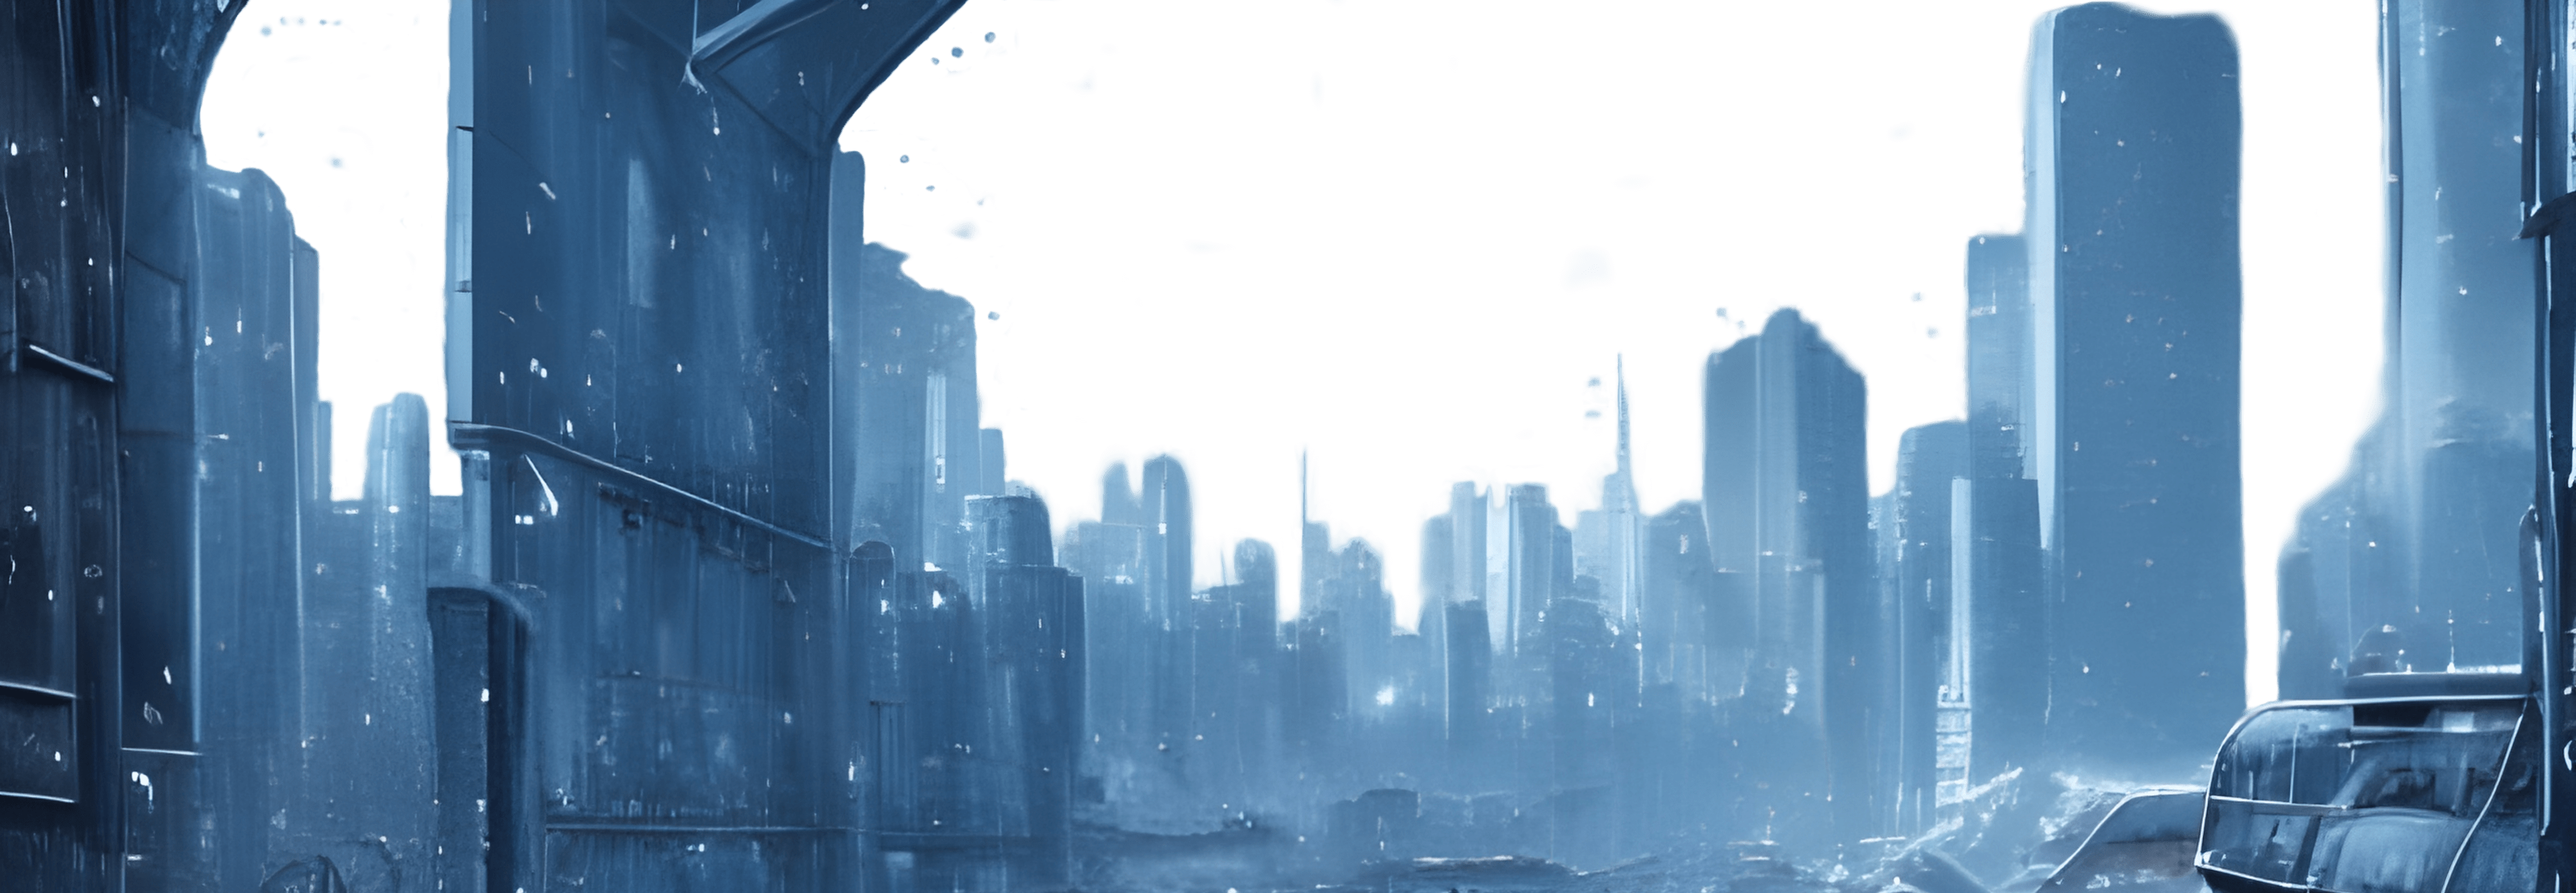
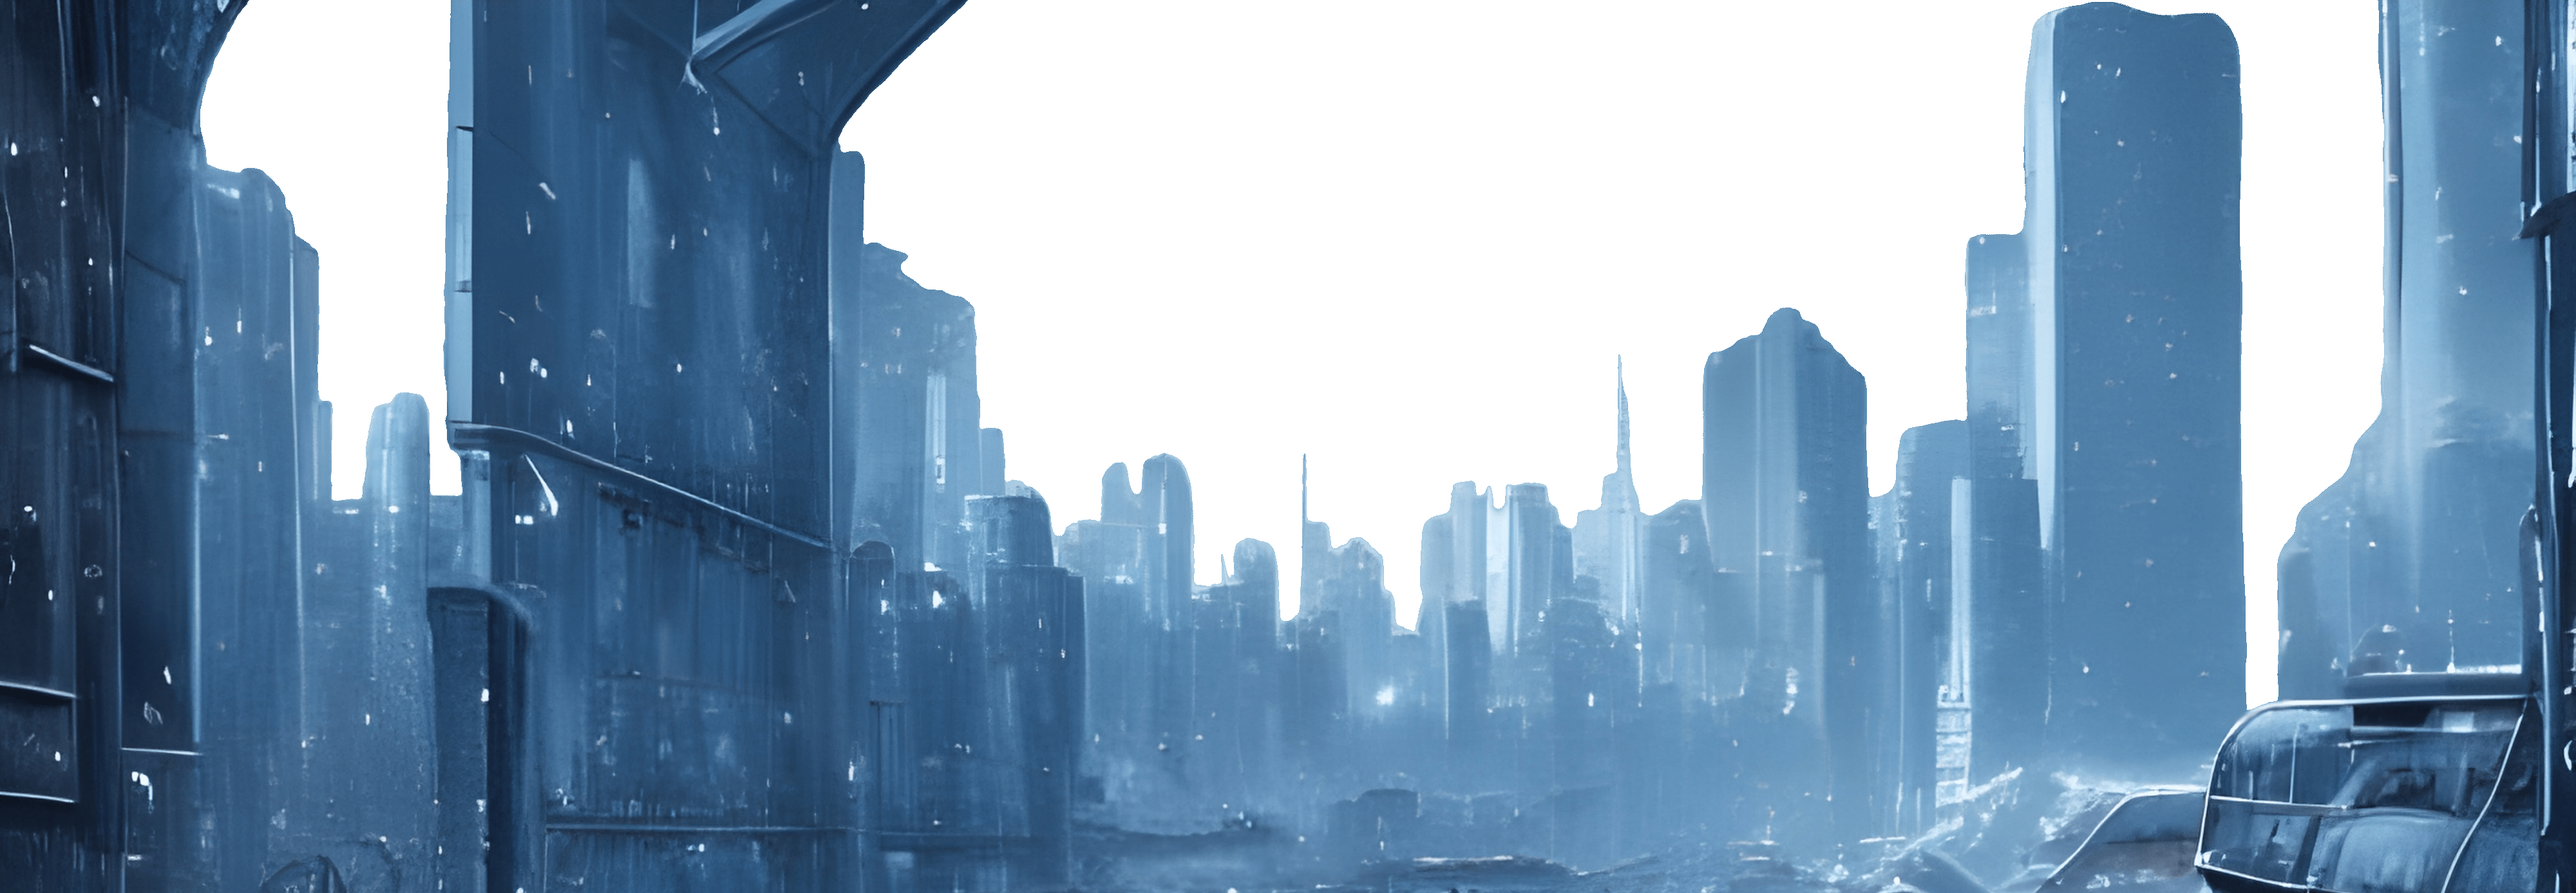
neotowns edit

diff --git a/public/defer.css b/public/defer.css
@@ -385,12 +385,12 @@ button:hover .icon .screen, button:hover .icon.screen {
 
 /* --< components >-- */
 .prog-dots:after {
-    content: '...';
-    animation: prog-dots-anim 2s linear infinite;
+    content: '';
+    animation: prog-dots-anim 4s linear infinite;
 }
 
 .prog-dots.glitch:after {
-    animation: prog-dots-anim-glitch 2s linear infinite;
+    animation: prog-dots-anim-glitch 4s ease-in infinite;
 }
 
 .what-is-this {
@@ -991,9 +991,9 @@ strong.buds {
 }
 
 #cyber .index__page .nav-container button.disabled:hover {
-    color: #696969;
+    color: #50545899;
+    border-color: #50545899;
     background-color: transparent;
-    border-color: #696969;
     cursor: default;
 }
 
@@ -1261,12 +1261,13 @@ strong.buds {
     background-position: 50% 25%;
 }
 
-#cyber .map .neotowns {
+#cyber .map .neotowns.img {
     background-image: url('img/map/explore/neotowns.png');
 }
 
 #cyber .map .neotowns.bg {
     background-position: center;
+    background-image: url('img/map/explore/neotowns-bg.jpg');
 }
 
 #cyber .map .spaceship {
@@ -1853,7 +1854,7 @@ strong.buds {
 #cyber .map .card:not(.nav),
 #cyber .map .card-wrap:not(.bar) .card.nav button:not(:hover) {
     color: var(--fg-blue);
-    background-color: #3333;
+    background-color: #2d323669;
     filter: brightness(80%) saturate(80%) contrast(120%);
 }
 
@@ -1889,13 +1890,6 @@ strong.buds {
 
 #cyber .map .card.nav article {
     margin: 0;
-}
-
-#cyber .prog-dots:after {
-    content: '';
-    animation-iteration-count: 1;
-    animation-delay: 1s;
-    animation-fill-mode: forwards;
 }
 
 .card h1 {
@@ -3484,15 +3478,17 @@ noscript span:hover {
 }
 
 @keyframes prog-dots-anim {
-    0% {content: '.';}
-    33% {content: '..';}
-    66%, 100% {content: '...';}
+    0% {content: '';}
+    25% {content: '.';}
+    50% {content: '..';}
+    75%, 100% {content: '...';}
 }
 
 @keyframes prog-dots-anim-glitch {
-    0%, 92% {content: '.';}
-    33% {content: '..';}
-    66%, 88%, 95%, 100% {content: '...';}
+    0%, 99% {content: '';}
+    25%, 92% {content: '.';}
+    50% {content: '..';}
+    75%, 88%, 94%, 98%, 100% {content: '...';}
 }
 
 @keyframes lasr-ring {

diff --git a/src/Components/Sections/Map/Explore/Neotowns.jsx b/src/Components/Sections/Map/Explore/Neotowns.jsx
@@ -9,26 +9,26 @@ export default function Neotowns() {
     <MoveSection id="explore_neotowns">
       <MapCard mover={mover} bg="neotowns" position="top">
         <p>
-          At the <strong>Horizon Centre</strong>
-          <span className="prog-dots glitch" />
-        </p>
-      </MapCard>
-      <MapCard mover={mover} bg="neotowns" position="top">
-        <p>
-          Dense degraded circuitry under the gradient twilight stars
-          <span className="prog-dots glitch" />
-        </p>
-      </MapCard>
-      <MapCard mover={mover} bg="neotowns" position="top">
-        <p>
-          Glimpsed into a world where shadow obstructs and clutters with uneven
-          machinery the metropolis' skyline.
+          <strong>Neotowns</strong> blur the boundaries between fantasy
+          and reality, merging elements from both places for deeper levels
+          of immersion within their world.
         </p>
       </MapCard>
       <MapCard mover={mover} position="top">
         <p>
-          As the night lurks in the <strong>Underground</strong> awakes
-          <span className="prog-dots" />
+          Dense degraded circuitry rots under the gradient twilight stars
+          seen through the <strong>H.O.R.I.Z.O.N.</strong> buildings.
+        </p>
+      </MapCard>
+      <MapCard mover={mover} position="top">
+        <p>
+          A glimpse into a world where shadow obstructs and clutters with
+          uneven machinery the metropolis' skyline.
+        </p>
+      </MapCard>
+      <MapCard mover={mover} position="top">
+        <p>
+          Now, as the night lurks in the <strong>Underground</strong> awakes...
         </p>
       </MapCard>
       <MapCard mover={mover} position="top">

diff --git a/src/Components/Sections/Map/Tmp.jsx b/src/Components/Sections/Map/Tmp.jsx
@@ -1,0 +1,48 @@
+//// ??? ////
+
+      <p>
+        The{" "}
+<a className="strong"
+   onClick={function(){move('cyber-mover','move-section-cyber_main');}}>
+  Cyberverse
+</a>
+<i className="arrow left"></i>
+{" "}is a type of virtual world which allows
+users to interact and influence each other in a shared virtual
+environment. This immersive experience seeks to replicate the
+dystopian slate of science fiction stories, creating an open-ended
+experience for users within which they can explore multiple
+storylines and outcomes. Interactivity between different denizens
+of the metaverse results in an emergent narrative as participants
+engage with each other through gameplay or programmed elements,
+allowing for persistent individual and collective stories.
+      </p>
+
+///
+
+      function Believe() {
+      return (
+      <>
+        <MapCard mover={mover} center>
+          <p>
+            We're building the content that's going to make up
+            our <strong>future</strong>. That's a privilege we won't throw away.
+          </p>
+        </MapCard>
+      </>
+      );
+}
+
+//// goals ////
+
+function DopeShit() {
+  return (
+    <>
+      <MapCard mover={mover} center>
+        <p>
+          We keep the important stuff always in clear sight.
+        </p>
+      </MapCard>
+    </>
+  );
+}

diff --git a/src/Components/Sections/Cyberverse.jsx b/src/Components/Sections/Cyberverse.jsx
@@ -25,7 +25,7 @@ const Txt = () => {
         a dinamically growing ever-expanding
         digital reality.{" "}
         <a className="strong"
-           onClick={function(){move('lasr');}}>
+           onClick={function(){move('lasr-mover');}}>
           LASR NFTs
         </a>{" "}
         are your all-access pass. They allow you to freely explore
